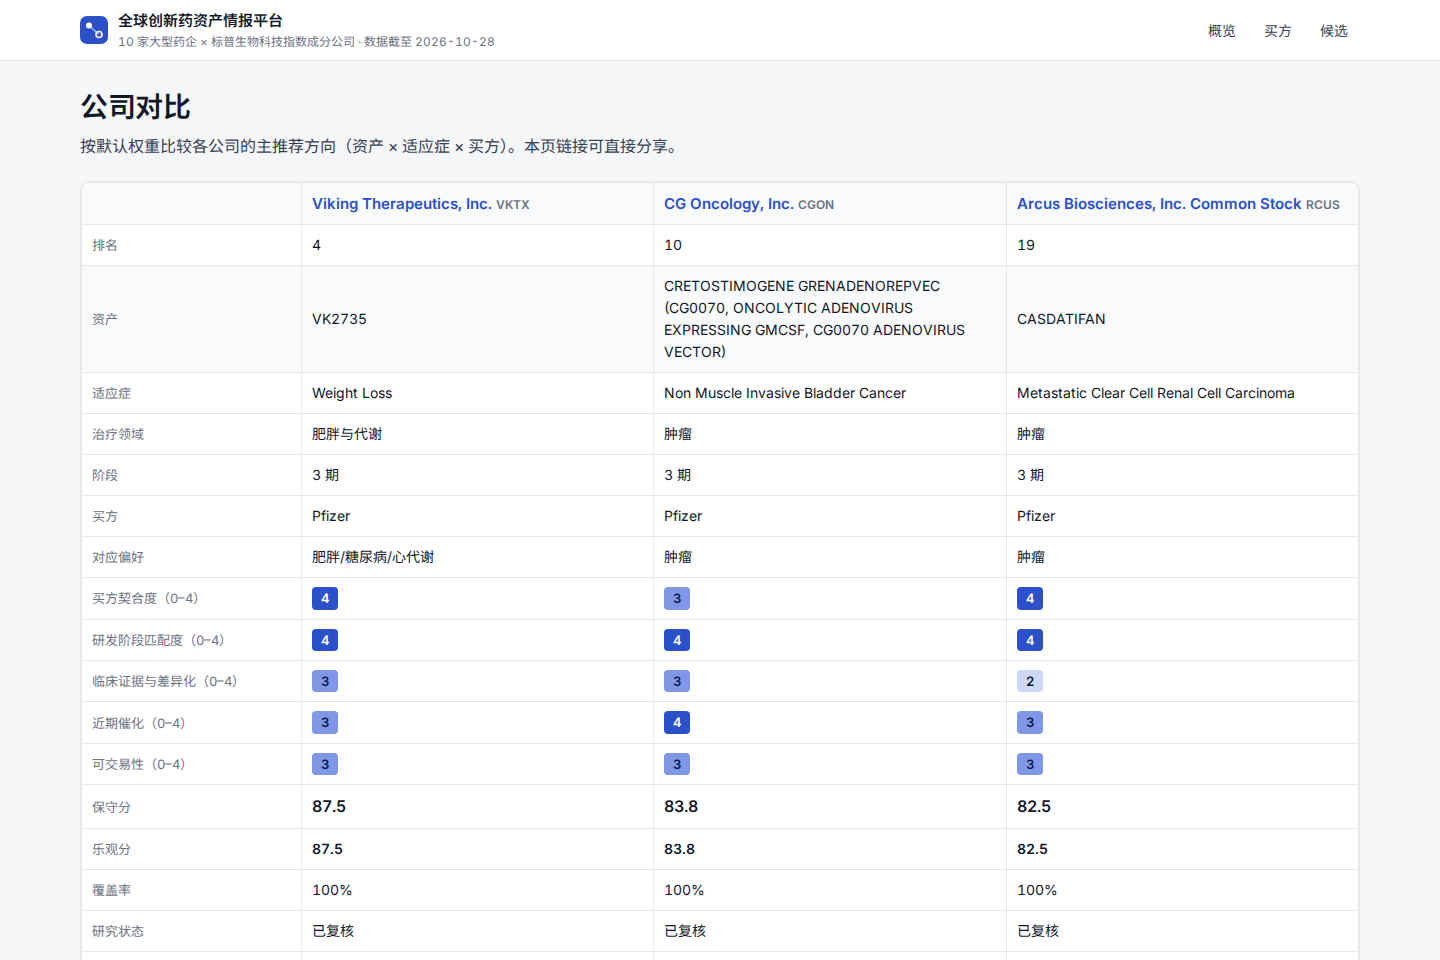
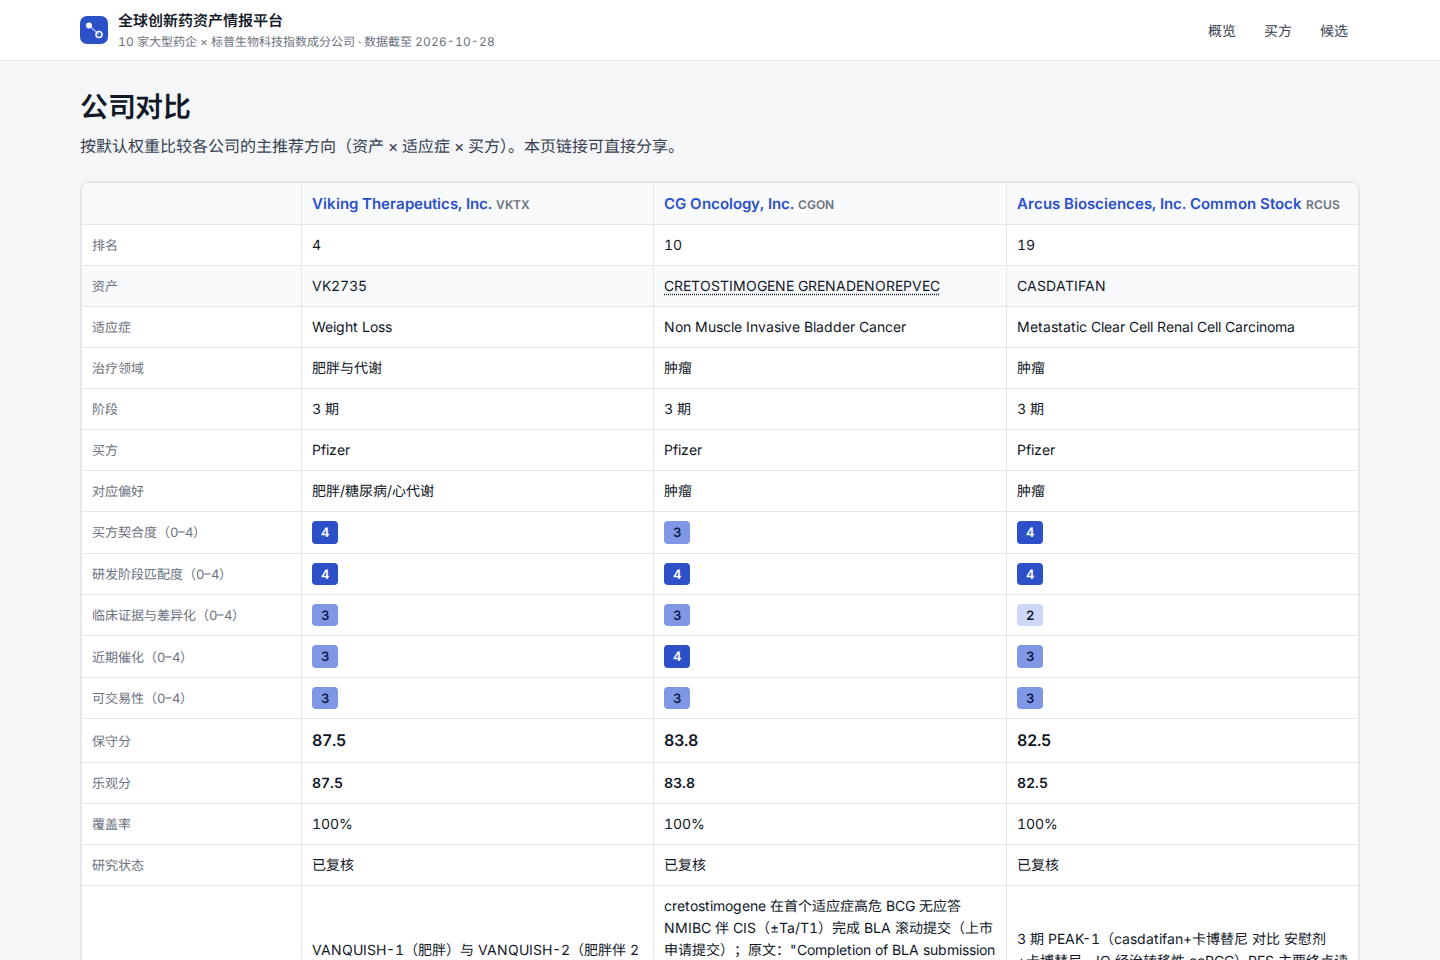
web: shorten bracketed CT.gov asset aliases in titles and tables, full name on hover
Claude-Session: https://claude.ai/code/session_01HkPvGRTAerm7dKeWUgGh96

diff --git a/web/src/pages/TargetDetail.tsx b/web/src/pages/TargetDetail.tsx
@@ -3,9 +3,9 @@ import { Link, useParams } from 'react-router'
 import { fetchTarget, type Recommendation, type TargetDetail as Detail, type TrialResult } from '../api/client'
 import { useApi } from '../api/useApi'
 import { Loaded } from '../components/Loaded'
-import { PageHead, Score } from '../components/Page'
+import { AssetName, PageHead, Score } from '../components/Page'
 import { Legend, Sourced, SourcedText } from '../components/Sourced'
-import { CATALYST_TYPE, DATE_TYPE, DIMENSIONS, label, money, RESEARCH_STATUS, RIGHTS, STAGE, taLabel } from '../labels'
+import { CATALYST_TYPE, DATE_TYPE, DIMENSIONS, label, money, RESEARCH_STATUS, RIGHTS, shortAsset, STAGE, taLabel } from '../labels'
 
 const REVIEW_FIELDS: [keyof Recommendation, string][] = [
   ['need_item', '对应买方需求'],
@@ -19,7 +19,7 @@ const REVIEW_FIELDS: [keyof Recommendation, string][] = [
 ]
 
 // One recommendation direction: asset × indication × buyer.
-const direction = (r: Recommendation) => `${r.asset ?? '—'} × ${r.indication ?? '—'} × ${r.buyer ?? '—'}`
+const direction = (r: Recommendation) => `${shortAsset(r.asset)} × ${r.indication ?? '—'} × ${r.buyer ?? '—'}`
 
 // Key facts beside the thesis: the numbers a reader checks first.
 function Facts({ r }: { r: Recommendation }) {
@@ -160,7 +160,7 @@ function OtherDirections({ items }: { items: Recommendation[] }) {
           title: '资产 × 适应症',
           render: (_, r) => (
             <div style={{ display: 'grid', gap: 2 }}>
-              <b>{r.asset ?? '—'}</b>
+              <b><AssetName name={r.asset} /></b>
               <span className="sub">{r.indication ?? '—'} · {taLabel(r.therapeutic_area)}</span>
             </div>
           ),
@@ -307,7 +307,7 @@ function View({ d }: { d: Detail }) {
                   dataSource={d.programs}
                   scroll={{ x: 900 }}
                   columns={[
-                    { title: '药物', dataIndex: 'name', width: 180, render: (v) => <b style={{ wordBreak: 'break-word' }}>{v}</b> },
+                    { title: '药物', dataIndex: 'name', width: 180, render: (v) => <b style={{ wordBreak: 'break-word' }}><AssetName name={v} /></b> },
                     { title: '作用机制', render: (_, p) => <Sourced sources={p.sources} field="mechanism">{p.mechanism ?? '—'}</Sourced> },
                     { title: '技术类型', width: 140, render: (_, p) => <Sourced sources={p.sources} field="modality">{p.modality ?? '—'}</Sourced> },
                     {

diff --git a/web/src/pages/Targets.tsx b/web/src/pages/Targets.tsx
@@ -5,7 +5,7 @@ import { fetchShortlist, type ShortlistItem } from '../api/client'
 import { useApi } from '../api/useApi'
 import { Loaded } from '../components/Loaded'
 import { PageHead, Score } from '../components/Page'
-import { DIMENSIONS, label, money, RESEARCH_STATUS, STAGE, STAGE_ORDER, TA, taLabel } from '../labels'
+import { DIMENSIONS, label, money, RESEARCH_STATUS, shortAsset, STAGE, STAGE_ORDER, TA, taLabel } from '../labels'
 
 const DEFAULT_WEIGHTS = [30, 20, 20, 15, 15]
 const MAX_COMPARE = 4
@@ -111,7 +111,7 @@ function List({ items }: { items: ShortlistItem[] }) {
             width: 180,
             render: (_, r) => (
               <div style={{ display: 'grid', gap: 2, minWidth: 0 }}>
-                <Typography.Text ellipsis={{ tooltip: r.asset }} style={{ fontWeight: 500 }}>{r.asset ?? '—'}</Typography.Text>
+                <Typography.Text ellipsis={{ tooltip: r.asset }} style={{ fontWeight: 500 }}>{shortAsset(r.asset)}</Typography.Text>
                 <Typography.Text ellipsis={{ tooltip: r.indication }} type="secondary" style={{ fontSize: 12 }}>
                   {r.indication ?? '—'} · {taLabel(r.therapeutic_area)}
                 </Typography.Text>

diff --git a/web/src/pages/TrialDetail.tsx b/web/src/pages/TrialDetail.tsx
@@ -3,7 +3,7 @@ import { Link, useParams } from 'react-router'
 import { fetchTrial, type TrialDetail as Detail } from '../api/client'
 import { useApi } from '../api/useApi'
 import { Loaded } from '../components/Loaded'
-import { PageHead } from '../components/Page'
+import { AssetName, PageHead } from '../components/Page'
 import { Legend, Sourced, SourcedText } from '../components/Sourced'
 import { DATE_TYPE, label, STAGE, taLabel } from '../labels'
 import { ResultsTable } from './TargetDetail'
@@ -48,7 +48,7 @@ function View({ d }: { d: Detail }) {
           <Descriptions.Item label="归入管线" span={2}>
             {d.indication ? (
               <>
-                {d.asset} · <Sourced sources={d.indication.sources} field="indication">{d.indication.indication}</Sourced>
+                <AssetName name={d.asset} /> · <Sourced sources={d.indication.sources} field="indication">{d.indication.indication}</Sourced>
                 {' · '}{taLabel(d.indication.therapeutic_area)}
                 {' · '}<Sourced sources={d.indication.sources} field="stage">{label(STAGE, d.indication.stage)}</Sourced>
               </>

diff --git a/web/src/components/Page.tsx b/web/src/components/Page.tsx
@@ -1,4 +1,6 @@
 import type { ReactNode } from 'react'
+import { Tooltip } from 'antd'
+import { shortAsset } from '../labels'
 
 // Page title block shared by every page: title, optional ticker, a meta line and a lead paragraph.
 export function PageHead({ title, ticker, meta, lead }: { title: ReactNode; ticker?: string; meta?: ReactNode; lead?: ReactNode }) {
@@ -18,4 +20,14 @@ export function PageHead({ title, ticker, meta, lead }: { title: ReactNode; tick
 export function Score({ value }: { value: number | null | undefined }) {
   if (value == null) return <span className="score score-none">—</span>
   return <span className={`score score-${Math.max(0, Math.min(4, Math.round(value)))}`}>{value}</span>
+}
+
+export function AssetName({ name }: { name: string | null | undefined }) {
+  const short = shortAsset(name)
+  if (!name || short === name) return <>{short}</>
+  return (
+    <Tooltip title={name}>
+      <span style={{ textDecoration: 'underline dotted', textUnderlineOffset: 3 }}>{short}</span>
+    </Tooltip>
+  )
 }

diff --git a/web/src/pages/Compare.tsx b/web/src/pages/Compare.tsx
@@ -4,12 +4,12 @@ import { Link, useSearchParams } from 'react-router'
 import { fetchShortlist, type ShortlistItem } from '../api/client'
 import { useApi } from '../api/useApi'
 import { Loaded } from '../components/Loaded'
-import { PageHead, Score } from '../components/Page'
+import { AssetName, PageHead, Score } from '../components/Page'
 import { DIMENSIONS, label, money, RESEARCH_STATUS, RIGHTS, STAGE, taLabel } from '../labels'
 
 const ROWS: [string, (i: ShortlistItem) => ReactNode][] = [
   ['排名', (i) => i.rank],
-  ['资产', (i) => i.asset ?? '—'],
+  ['资产', (i) => <AssetName name={i.asset} />],
   ['适应症', (i) => i.indication ?? '—'],
   ['治疗领域', (i) => taLabel(i.therapeutic_area)],
   ['阶段', (i) => label(STAGE, i.stage)],

diff --git a/web/src/labels.ts b/web/src/labels.ts
@@ -116,3 +116,11 @@ export function money(v: number | null | undefined, currency = 'USD'): string {
 // Buyer workbook amounts are already in billions of the stated currency.
 export const billions = (v: number | null | undefined, currency: string) =>
   v == null ? '—' : `${v.toLocaleString()} ${currency === 'USD' ? '十亿美元' : `十亿 ${currency}`}`
+
+// CT.gov-derived asset names often carry every alias in brackets; show the part before the first bracket
+// and keep the full name on hover. Display only: the stored name is unchanged.
+export function shortAsset(name: string | null | undefined): string {
+  if (!name) return '—'
+  const cut = name.search(/\s*[(（]/)
+  return cut > 0 && name.length > 24 ? name.slice(0, cut) : name
+}

diff --git a/docs/ai-log.md b/docs/ai-log.md
@@ -46,3 +46,4 @@
 | 2026-11-01 | G 视觉改版第二轮 | Claude Code (Opus 5.5) 改样式、布局与长文本排版；Playwright（无头 Chromium）1440 / 390 宽度截图检查 | 按用户选择改为无衬线、冷色调的数据产品风格；公司详情复核结论改为「论点 + 要点卡」两栏；长文本按句分段、原文引用成块、来源 ID 变链接、关键数字加粗（只改显示）。检查：来源 ID 识别规则对快照全部长文本字段跑了一遍，649 处全部对上已登记来源；首版规则误把药物代码 ABBV-400 与单词 FDA-approved 识别为来源，已收紧规则。各页 1440 宽度无横向滚动，演示走查通过（Pfizer + 3 期 8 行，RGNX 片段标出）。 |
 | 2026-11-01 | G 用语调整 | Claude Code (Opus 5.5) | 按用户评审改两处页面用语：「两句话论点」改为「推荐逻辑」（加一行说明两句话的内容）；「主组合 / 其他组合」改为「主推荐方向 / 其他可能方向」，标题写明「资产 × 适应症 × 买方」，并注明公司分数只按主推荐方向计算。`docs/scoring-rules.md`、`docs/plan.md` 与 `web-app` 变更文档同步改名。检查：构建与演示走查通过。未改：快照内的声明说明与缺口原因文字、已归档的主规格，仍用旧称。 |
 | 2026-11-01 | G 未复核方向的展示 | Claude Code (Opus 5.5) | 按用户评审：没有推荐逻辑的推荐方向，左栏改为显示各维度的「评分依据」（取自评分声明的说明，原文不改）；「其他可能方向」由折叠面板改为一张紧凑表格（资产 × 适应症、阶段、买方、五维分数、保守 / 乐观分），点开一行看评分依据与复核字段。检查：RGNX（已复核，含 5 个其他方向）与 MNKD（自动初筛）页面截图，演示走查通过。 |
+| 2026-11-01 | G 长资产名缩写 | Claude Code (Opus 5.5) | 由 CT.gov 干预名推导的资产名常带一串别名括号。页面标题、候选列表、其他方向表、管线表、对比页与试验页只显示第一个括号前的部分（名称超过 24 个字符时），悬停显示全名；要点卡仍显示全名；数据不变。检查：MNKD 标题显示为「TECHNOSPHERE INSULIN × Type 2 Diabetes × Pfizer」，演示走查通过。 |
